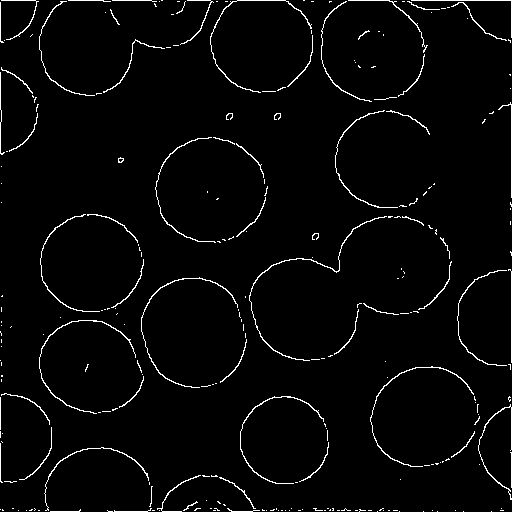
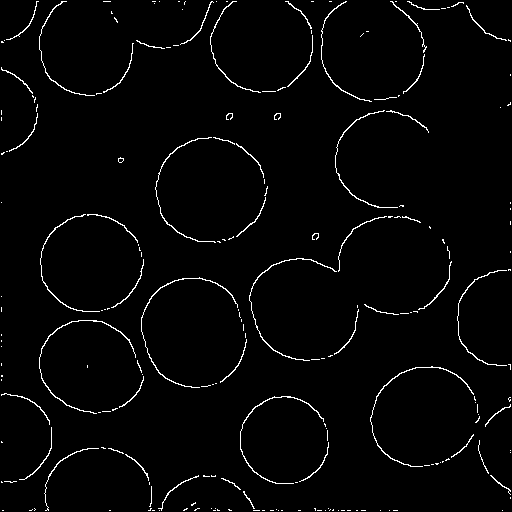
change: thresholds

Changed region(s): [[0.9688, 0.0, 1.0, 0.0312], [0.0, 0.0, 0.0312, 0.0312]]

diff --git a/src/main/kotlin/dmitry/example/CannyOperatorExample.kt b/src/main/kotlin/dmitry/example/CannyOperatorExample.kt
@@ -19,8 +19,8 @@ fun main() {
 
         gaussianBlurSigma = 3.0,
         gaussianBlurKernelSize = 5,
-        lowerThresholdPercentage = 0.5,
-        upperThresholdPercentage = 0.6
+        lowerThresholdPercentage = 0.6,
+        upperThresholdPercentage = 0.7
 
     ).detectEdges()
 
